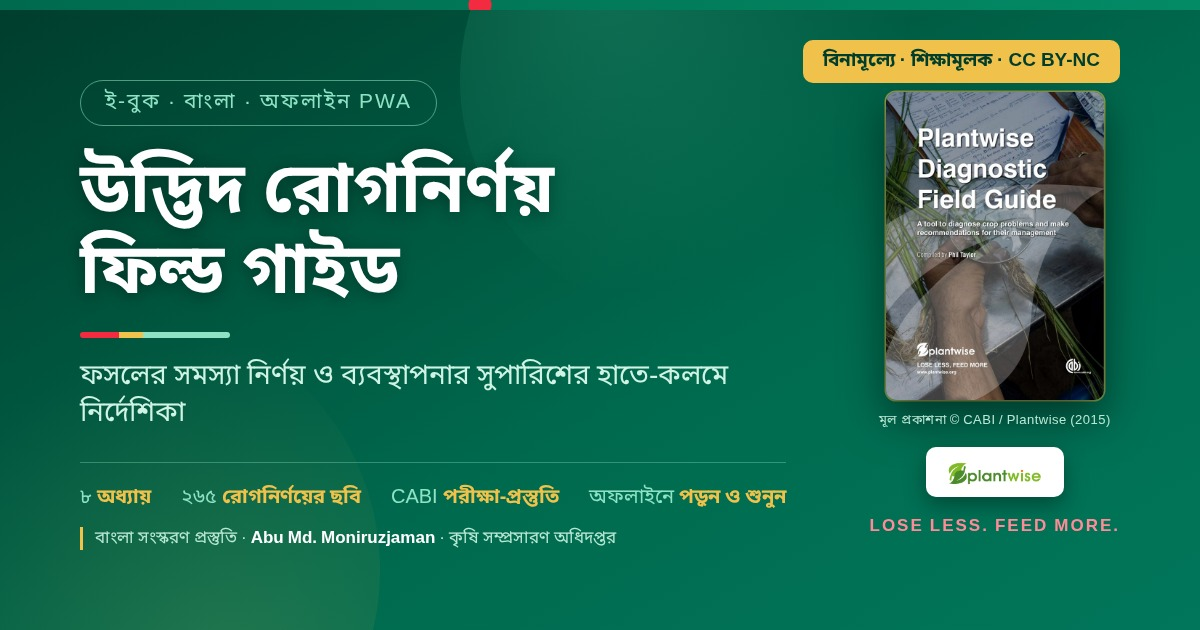
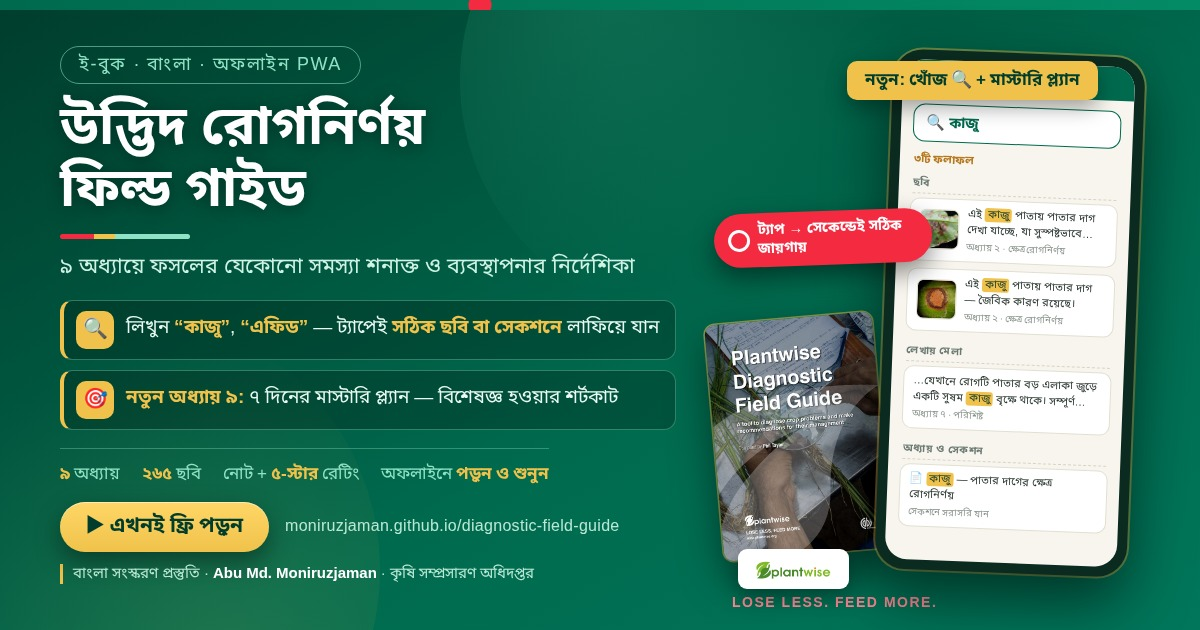
v1.6.1: click-compelling OG card — phone mock of live search results + update hooks
- right column now shows the app: rotated phone mock with the search UI
  ('কাজু' query, 3 results, real figure thumbnails, <mark> highlights,
  section groups) + red 'ট্যাপ → সেকেন্ডেই সঠিক জায়গায়' pill
- left column: two gold feature hooks (exact-spot search, নতুন অধ্যায় ৯
  মাস্টারি প্ল্যান), updated stats (৯ অধ্যায়), gold CTA pill + URL
- badge: 'নতুন: খোঁজ 🔍 + মাস্টারি প্ল্যান'
- meta: og/twitter description rewritten as click hooks, og:image
  cache-busted (?v=2), descriptive og:image:alt

diff --git a/og-image.html b/og-image.html
@@ -19,7 +19,7 @@ body { width: 1200px; height: 630px; overflow: hidden; }
   width: 1200px; height: 630px;
   background: linear-gradient(150deg, #003D2C 0%, #006A4E 58%, #01765A 100%);
   color: #fff; position: relative;
-  display: flex; align-items: center; padding: 0 80px;
+  display: flex; align-items: center; padding: 0 56px 0 60px;
   font-family: 'NSB', sans-serif;
 }
 /* BD flag ribbon across the very top */
@@ -32,86 +32,242 @@ body { width: 1200px; height: 630px; overflow: hidden; }
 .hero::before {
   content: ""; position: absolute; top: -160px; right: 260px;
   width: 480px; height: 480px; border-radius: 50%;
-  background: radial-gradient(circle at 30% 30%, rgba(69,214,164,.22), transparent 65%);
+  background: radial-gradient(circle at 30% 30%, rgba(69,214,164,.20), transparent 65%);
 }
 .hero::after {
   content: ""; position: absolute; bottom: -200px; left: -140px;
   width: 520px; height: 520px; border-radius: 50%;
-  background: radial-gradient(circle at 70% 70%, rgba(240,194,75,.14), transparent 65%);
+  background: radial-gradient(circle at 70% 70%, rgba(240,194,75,.13), transparent 65%);
 }
 .left { flex: 1 1 auto; min-width: 0; position: relative; z-index: 2; }
 .tag {
   display: inline-block; width: fit-content;
-  font-size: 21px; letter-spacing: 2px; color: #8FE3C4;
+  font-size: 18px; letter-spacing: 1.5px; color: #8FE3C4;
   border: 1.5px solid rgba(143,227,196,.55);
-  padding: 8px 24px; border-radius: 999px; margin-bottom: 28px;
+  padding: 6px 18px; border-radius: 999px; margin-bottom: 16px;
 }
-h1 { font-size: 70px; font-weight: 700; line-height: 1.16; margin-bottom: 16px; text-shadow: 0 3px 16px rgba(0,0,0,.35); }
+h1 { font-size: 54px; font-weight: 700; line-height: 1.14; margin-bottom: 10px; text-shadow: 0 3px 16px rgba(0,0,0,.35); }
 .rule {
-  width: 150px; height: 6px; border-radius: 3px; margin-bottom: 20px;
+  width: 130px; height: 5px; border-radius: 3px; margin-bottom: 14px;
   background: linear-gradient(90deg, #F42A41 0 26%, #F0C24B 26% 42%, #8FE3C4 42% 100%);
 }
-.sub { font-size: 28px; color: #CFF3E4; margin-bottom: 30px; font-weight: 400; }
+.sub { font-size: 21.5px; color: #CFF3E4; margin-bottom: 18px; font-weight: 400; }
+/* the two update hooks — concrete, curiosity-driven */
+.hooks { display: flex; flex-direction: column; gap: 10px; margin-bottom: 18px; width: fit-content; }
+.hook {
+  display: flex; align-items: center; gap: 12px;
+  background: rgba(0,0,0,.22);
+  border: 1px solid rgba(143,227,196,.35);
+  border-left: 4px solid #F0C24B;
+  border-radius: 12px; padding: 10px 16px 10px 12px;
+}
+.hook .ico {
+  flex: none; width: 38px; height: 38px; border-radius: 10px;
+  background: #F0C24B; color: #003D2C;
+  display: flex; align-items: center; justify-content: center;
+  font-size: 20px; font-weight: 700;
+}
+.hook .txt { font-size: 19px; line-height: 1.42; color: #EAFBF3; }
+.hook .txt b { color: #F0C24B; }
 .meta {
-  display: flex; gap: 30px; font-size: 20px; color: #8FE3C4;
-  border-top: 1px solid rgba(143,227,196,.35); padding-top: 22px; width: fit-content;
+  display: flex; gap: 22px; font-size: 17px; color: #8FE3C4;
+  border-top: 1px solid rgba(143,227,196,.35); padding-top: 14px; width: fit-content;
+  margin-bottom: 16px;
 }
 .meta b { color: #F0C24B; }
+.cta-row { display: flex; align-items: center; gap: 16px; width: fit-content; }
+.cta {
+  font-size: 21px; font-weight: 700; color: #003D2C;
+  background: linear-gradient(180deg, #FFD666, #F0C24B);
+  padding: 11px 26px; border-radius: 999px;
+  box-shadow: 0 10px 26px rgba(0,0,0,.4), inset 0 1px 0 rgba(255,255,255,.5);
+}
+.url { font-size: 16px; color: #B9E8D4; letter-spacing: .3px; }
 .author-line {
-  margin-top: 16px;
-  font-size: 17px;
+  margin-top: 12px;
+  font-size: 15px;
   color: #B9E8D4;
   width: fit-content;
   border-left: 3px solid #F0C24B;
-  padding-left: 12px;
+  padding-left: 10px;
 }
 .author-line b { color: #FFFFFF; font-weight: 700; }
-/* right column: authentic source cover + plantwise logo */
+/* ── right column: phone mock of the search UI + source cover behind ── */
 .right {
-  flex: 0 0 auto; margin-left: 56px; position: relative; z-index: 2;
-  display: flex; flex-direction: column; align-items: center; gap: 18px;
+  flex: 0 0 auto; position: relative; z-index: 2;
+  width: 430px; height: 560px; margin-left: 34px;
+}
+.badge2 {
+  position: absolute; top: 26px; right: 46px;
+  font-size: 17px; color: #003D2C; background: #F0C24B;
+  padding: 8px 18px; border-radius: 10px; font-weight: 700; z-index: 5;
+  box-shadow: 0 8px 20px rgba(0,0,0,.35);
 }
 .cover {
-  width: 218px; height: auto; border-radius: 10px;
-  box-shadow: 0 18px 44px rgba(0,0,0,.5), 0 0 0 1.5px rgba(240,194,75,.6);
-  display: block;
+  position: absolute; left: 0; bottom: 40px; width: 168px; height: auto;
+  border-radius: 10px; transform: rotate(-5deg);
+  box-shadow: 0 16px 40px rgba(0,0,0,.5), 0 0 0 1.5px rgba(240,194,75,.6);
+  z-index: 1;
 }
-.cover-cap { font-size: 13px; color: #B9E8D4; letter-spacing: .5px; margin-top: -6px; }
 .pw-pill {
-  background: #fff; border-radius: 10px; padding: 10px 16px;
-  box-shadow: 0 8px 22px rgba(0,0,0,.35);
+  position: absolute; left: 24px; bottom: 6px;
+  background: #fff; border-radius: 9px; padding: 8px 13px;
+  box-shadow: 0 8px 22px rgba(0,0,0,.35); z-index: 3;
 }
-.pw-pill img { height: 30px; width: auto; display: block; }
-.pw-tag { font-size: 17px; font-weight: 700; color: #FF8B98; letter-spacing: 2px; }
-.badge2 {
-  position: absolute; top: 40px; right: 80px;
-  font-size: 19px; color: #003D2C; background: #F0C24B;
-  padding: 9px 20px; border-radius: 10px; font-weight: 700; z-index: 3;
+.pw-pill img { height: 24px; width: auto; display: block; }
+.pw-tag { position: absolute; left: 18px; bottom: -18px; font-size: 14px; font-weight: 700; color: #FF8B98; letter-spacing: 1.5px; }
+/* the phone */
+.phone {
+  position: absolute; right: 8px; top: 18px;
+  width: 252px; height: 520px;
+  background: #0B2B20; border-radius: 30px;
+  padding: 10px;
+  box-shadow: 0 26px 60px rgba(0,0,0,.55), 0 0 0 2px rgba(240,194,75,.45);
+  transform: rotate(2.2deg);
+  z-index: 2;
+}
+.screen {
+  width: 100%; height: 100%;
+  background: #F7F5EE; border-radius: 22px;
+  overflow: hidden;
+  display: flex; flex-direction: column;
+  color: #1F2A24;
+}
+.s-top {
+  background: #006A4E; color: #fff;
+  padding: 9px 12px;
+  display: flex; align-items: center; gap: 8px;
+  font-size: 12.5px; font-weight: 700;
+  flex: none;
+}
+.s-top .dot {
+  width: 16px; height: 16px; border-radius: 50%;
+  background: #F42A41; flex: none;
+}
+.s-search {
+  margin: 10px 12px 0;
+  background: #fff; border: 1.5px solid #006A4E;
+  border-radius: 12px; padding: 8px 12px;
+  display: flex; align-items: center; gap: 8px;
+  font-size: 15px; font-weight: 700; color: #006A4E;
+  flex: none;
+}
+.s-count {
+  margin: 10px 14px 2px;
+  font-size: 11.5px; font-weight: 700; color: #B7791F;
+  flex: none;
+}
+.s-group {
+  margin: 6px 14px 4px;
+  font-size: 10.5px; font-weight: 700; color: #6B7A72;
+  letter-spacing: .5px;
+  border-bottom: 1px dashed #D8D4C4; padding-bottom: 3px;
+  flex: none;
+}
+.s-item {
+  display: flex; align-items: center; gap: 8px;
+  margin: 0 12px 7px;
+  background: #fff; border: 1px solid #E2DFD2;
+  border-radius: 10px; padding: 7px 9px;
+  flex: none;
+}
+.s-item img {
+  width: 40px; height: 40px; object-fit: cover;
+  border-radius: 7px; border: 1px solid #E2DFD2; flex: none;
+}
+.s-item .lines { min-width: 0; }
+.s-item .l1 { font-size: 11px; line-height: 1.45; color: #2A362F; }
+.s-item mark { background: #F0C24B; color: #163A2C; border-radius: 3px; padding: 0 3px; }
+.s-item .l2 { font-size: 9.5px; color: #8A948D; margin-top: 2px; }
+.s-item.text .lines { display: flex; flex-direction: column; }
+/* tap hint */
+.tap {
+  position: absolute; right: 212px; top: 176px; z-index: 4;
+  display: flex; align-items: center; gap: 8px;
+  background: #F42A41; color: #fff;
+  font-size: 14.5px; font-weight: 700;
+  padding: 8px 14px; border-radius: 999px;
+  box-shadow: 0 10px 24px rgba(0,0,0,.45);
+  transform: rotate(-2deg);
+}
+.tap .ring {
+  width: 22px; height: 22px; border-radius: 50%;
+  border: 3px solid #fff; flex: none;
 }
 </style>
 </head>
 <body>
 <div class="hero">
   <div class="ribbon"></div>
-  <div class="badge2">বিনামূল্যে · শিক্ষামূলক · CC BY-NC</div>
   <div class="left">
     <div class="tag">ই-বুক · বাংলা · অফলাইন PWA</div>
     <h1>উদ্ভিদ রোগনির্ণয়<br>ফিল্ড গাইড</h1>
     <div class="rule"></div>
-    <div class="sub">ফসলের সমস্যা নির্ণয় ও ব্যবস্থাপনার সুপারিশের হাতে-কলমে নির্দেশিকা</div>
+    <div class="sub">৯ অধ্যায়ে ফসলের যেকোনো সমস্যা শনাক্ত ও ব্যবস্থাপনার নির্দেশিকা</div>
+    <div class="hooks">
+      <div class="hook">
+        <div class="ico">🔍</div>
+        <div class="txt">লিখুন <b>“কাজু”</b>, <b>“এফিড”</b> — ট্যাপেই <b>সঠিক ছবি বা সেকশনে</b> লাফিয়ে যান</div>
+      </div>
+      <div class="hook">
+        <div class="ico">🎯</div>
+        <div class="txt"><b>নতুন অধ্যায় ৯:</b> ৭ দিনের মাস্টারি প্ল্যান — বিশেষজ্ঞ হওয়ার শর্টকাট</div>
+      </div>
+    </div>
     <div class="meta">
-      <span>৮ <b>অধ্যায়</b></span>
-      <span>২৬৫ <b>রোগনির্ণয়ের ছবি</b></span>
-      <span>CABI <b>পরীক্ষা-প্রস্তুতি</b></span>
+      <span><b>৯</b> অধ্যায়</span>
+      <span><b>২৬৫</b> ছবি</span>
+      <span>নোট + <b>৫-স্টার</b> রেটিং</span>
       <span>অফলাইনে <b>পড়ুন ও শুনুন</b></span>
+    </div>
+    <div class="cta-row">
+      <div class="cta">▶ এখনই ফ্রি পড়ুন</div>
+      <div class="url">moniruzjaman.github.io/diagnostic-field-guide</div>
     </div>
     <div class="author-line">বাংলা সংস্করণ প্রস্তুতি · <b>Abu Md. Moniruzjaman</b> · কৃষি সম্প্রসারণ অধিদপ্তর</div>
   </div>
   <div class="right">
+    <div class="badge2">নতুন: খোঁজ 🔍 + মাস্টারি প্ল্যান</div>
     <img class="cover" src="img/source-cover.jpg" alt="মূল বইয়ের প্রচ্ছদ">
-    <div class="cover-cap">মূল প্রকাশনা © CABI / Plantwise (2015)</div>
     <div class="pw-pill"><img src="img/plantwise-logo.png" alt="Plantwise"></div>
     <div class="pw-tag">LOSE LESS. FEED MORE.</div>
+    <div class="tap"><span class="ring"></span>ট্যাপ → সেকেন্ডেই সঠিক জায়গায়</div>
+    <div class="phone">
+      <div class="screen">
+        <div class="s-top"><span class="dot"></span>উদ্ভিদ রোগনির্ণয় ফিল্ড গাইড</div>
+        <div class="s-search">🔍 কাজু</div>
+        <div class="s-count">৩টি ফলাফল</div>
+        <div class="s-group">ছবি</div>
+        <div class="s-item">
+          <img src="img/p015_00.jpg" alt="">
+          <div class="lines">
+            <div class="l1">এই <mark>কাজু</mark> পাতায় পাতার দাগ দেখা যাচ্ছে, যা সুস্পষ্টভাবে…</div>
+            <div class="l2">অধ্যায় ২ · ক্ষেত্র রোগনির্ণয়</div>
+          </div>
+        </div>
+        <div class="s-item">
+          <img src="img/p015_01.jpg" alt="">
+          <div class="lines">
+            <div class="l1">এই <mark>কাজু</mark> পাতায় পাতার দাগ — জৈবিক কারণ রয়েছে।</div>
+            <div class="l2">অধ্যায় ২ · ক্ষেত্র রোগনির্ণয়</div>
+          </div>
+        </div>
+        <div class="s-group">লেখায় মেলা</div>
+        <div class="s-item text">
+          <div class="lines">
+            <div class="l1">…যেখানে রোগটি পাতার বড় এলাকা জুড়ে একটি সুষম <mark>কাজু</mark> বৃক্ষে থাকে। সম্পূর্ণ…</div>
+            <div class="l2">অধ্যায় ৭ · পরিশিষ্ট</div>
+          </div>
+        </div>
+        <div class="s-group">অধ্যায় ও সেকশন</div>
+        <div class="s-item text">
+          <div class="lines">
+            <div class="l1">📄 <mark>কাজু</mark> — পাতার দাগের ক্ষেত্র রোগনির্ণয়</div>
+            <div class="l2">সেকশনে সরাসরি যান</div>
+          </div>
+        </div>
+      </div>
+    </div>
   </div>
 </div>
 </body>

diff --git a/index.html b/index.html
@@ -15,17 +15,17 @@
 <meta property="og:type" content="book">
 <meta property="og:site_name" content="উদ্ভিদ রোগনির্ণয় ফিল্ড গাইড">
 <meta property="og:title" content="উদ্ভিদ রোগনির্ণয় ফিল্ড গাইড — বাংলা ই-বুক">
-<meta property="og:description" content="ফসলের সমস্যা নির্ণয় ও ব্যবস্থাপনার সুপারিশ প্রণয়নের হাতে-কলমে নির্দেশিকা। অফলাইনে পড়া ও শোনা যায়। মূল গ্রন্থ: CABI Plantwise (CC BY-NC)।">
-<meta property="og:image" content="https://moniruzjaman.github.io/diagnostic-field-guide/og-image.jpg">
+<meta property="og:description" content="৯ অধ্যায় · ২৬৫ ছবির বাংলা রোগনির্ণয় গাইড — এখন সার্চসহ: 'কাজু' লিখুন, ট্যাপেই সঠিক ছবি বা সেকশনে পৌঁছান। নতুন ৭ দিনের মাস্টারি প্ল্যান। অফলাইনে পড়া ও শোনা যায়। মূল গ্রন্থ: CABI Plantwise (CC BY-NC)।">
+<meta property="og:image" content="https://moniruzjaman.github.io/diagnostic-field-guide/og-image.jpg?v=2">
 <meta property="og:image:type" content="image/jpeg">
 <meta property="og:image:width" content="1200">
 <meta property="og:image:height" content="630">
-<meta property="og:image:alt" content="উদ্ভিদ রোগনির্ণয় ফিল্ড গাইড — বাংলা ই-বুক">
+<meta property="og:image:alt" content="উদ্ভিদ রোগনির্ণয় ফিল্ড গাইড — সার্চসহ বাংলা ই-বুক: ট্যাপে সঠিক ছবি ও সেকশনে নেভিগেশন, ৭ দিনের মাস্টারি প্ল্যান">
 <meta property="og:locale" content="bn_BD">
 <meta name="twitter:card" content="summary_large_image">
 <meta name="twitter:title" content="উদ্ভিদ রোগনির্ণয় ফিল্ড গাইড — বাংলা ই-বুক">
-<meta name="twitter:description" content="ফসলের সমস্যা নির্ণয় ও ব্যবস্থাপনার সুপারিশ প্রণয়নের নির্দেশিকা। অফলাইনে পড়ুন। মূল গ্রন্থ: CABI Plantwise (CC BY-NC)।">
-<meta name="twitter:image" content="https://moniruzjaman.github.io/diagnostic-field-guide/og-image.jpg">
+<meta name="twitter:description" content="৯ অধ্যায় · ২৬৫ ছবির বাংলা রোগনির্ণয় গাইড — এখন সার্চসহ: ট্যাপেই সঠিক ছবি বা সেকশনে পৌঁছান। নতুন ৭ দিনের মাস্টারি প্ল্যান। অফলাইনে পড়ুন।">
+<meta name="twitter:image" content="https://moniruzjaman.github.io/diagnostic-field-guide/og-image.jpg?v=2">
 
 <meta name="apple-mobile-web-app-capable" content="yes">
 <meta name="apple-mobile-web-app-status-bar-style" content="black-translucent">
